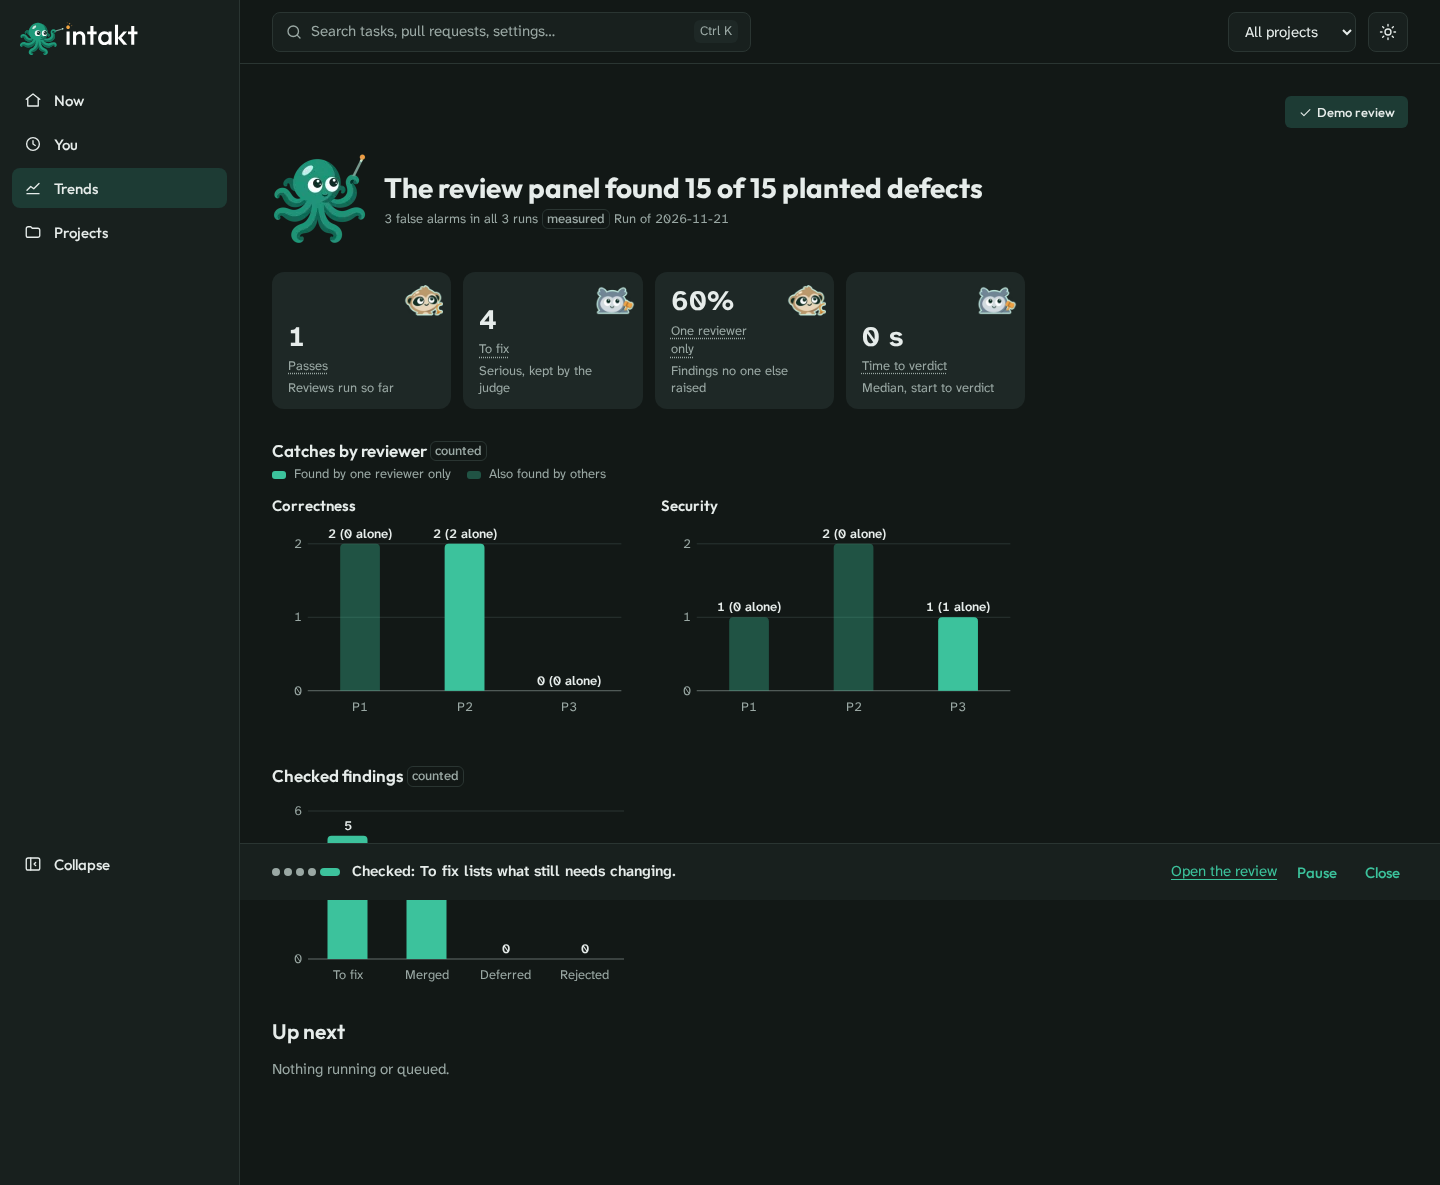
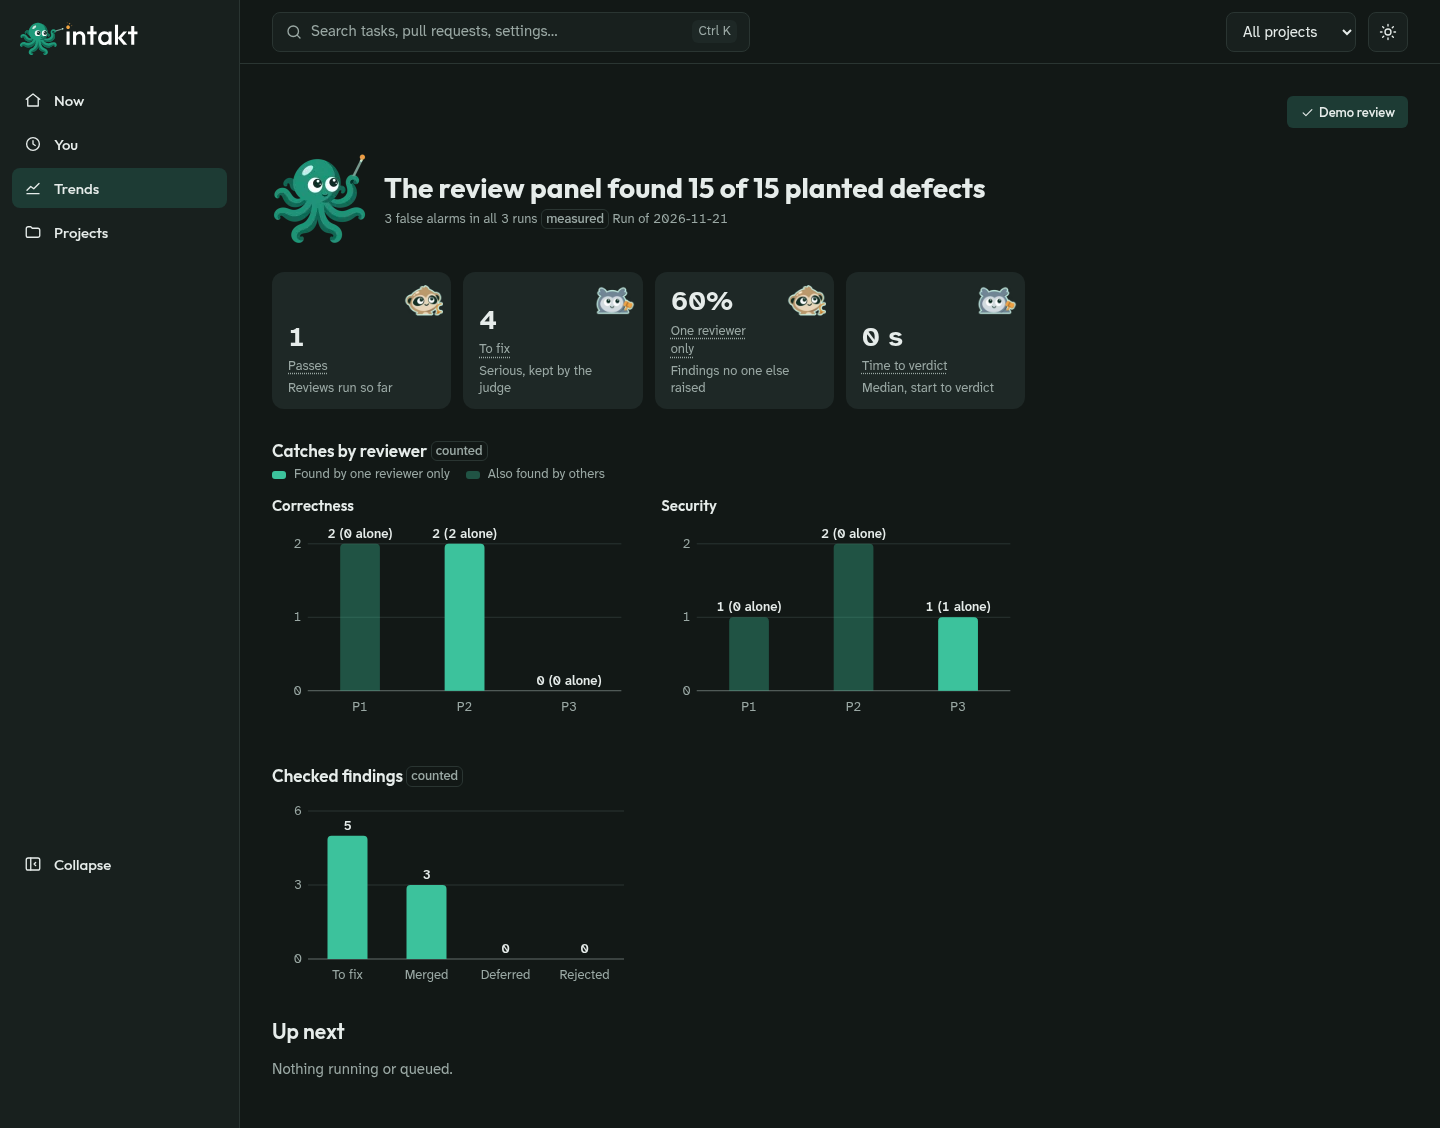
test(dashboard): recapture the trends screenshots with the demo tour caption closed

diff --git a/.evidence/3014/README.md b/.evidence/3014/README.md
@@ -2,7 +2,7 @@
 
 ## Running install
 
-A scratch install on SQLite (`APP_ENV=test`, `DASHBOARD_PORT=7791`, `INTAKT_COMPOSE_SERVICE=intakt` so the demo commands run), served by `php -S localhost:7791 -t public public/index.php`:
+A scratch install on SQLite (`APP_ENV=test`, `DASHBOARD_PORT=7791`, `INTAKT_COMPOSE_SERVICE=intakt` so the demo commands run), served by `php -d variables_order=EGPCS -S localhost:7791 -t public public/index.php`:
 
 ```
 bin/console doctrine:migrations:migrate -n
@@ -13,9 +13,17 @@ bin/console intakt:demo:replay fixtures/demo/sample-change-review.json --factor=
       the demo project demo-replay, 1000 times as fast as recorded.
 ```
 
-The replayed rows are the ledger rows of a real review that `intakt:demo:record` captured, so `/trends` reads rows the application wrote, not rows appended by hand. Playwright's Chromium then opened `/trends` (HTTP 200 in all four runs) and saved:
+The replayed rows are the ledger rows of a real review that `intakt:demo:record` captured, so `/trends` reads rows the application wrote, not rows appended by hand. Playwright's Chromium then opened `/trends` (HTTP 200 in all four runs), clicked the demo tour caption's Close button, reloaded the page and saved:
 
-- `trends-dark-1440.png`, `trends-light-1440.png`, `trends-dark-390.png`, `trends-light-390.png` (full page; the bar across the middle is the demo tour caption, fixed to the viewport).
+- `trends-dark-1440.png`, `trends-light-1440.png`, `trends-dark-390.png`, `trends-light-390.png` (full page, caption closed). The script's own log of each run:
+
+```
+trends-dark-1440 HTTP 200 caption shown before Close: true caption visible after: false theme: dark
+trends-light-1440 HTTP 200 caption shown before Close: true caption visible after: false theme: light
+trends-dark-390 HTTP 200 caption shown before Close: true caption visible after: false theme: dark
+trends-light-390 HTTP 200 caption shown before Close: true caption visible after: false theme: light
+```
+
 - `trends-dark-1440-judge-keyboard-tooltip.png`: the first bar of "Checked findings" focused with the keyboard; the tooltip reads "5 findings / Kept to fix".
 - `trends-tables.txt`: the heading, takeaway and table of each chart as the page renders them.
 - `ui-check.txt`: `node bin/ui-check http://localhost:7791` on the same install (exit 0).
